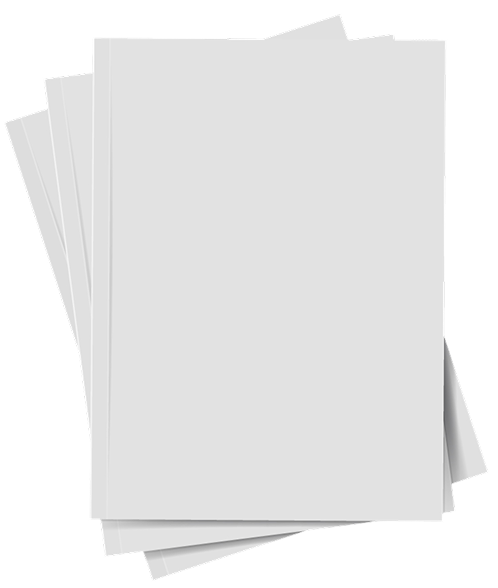
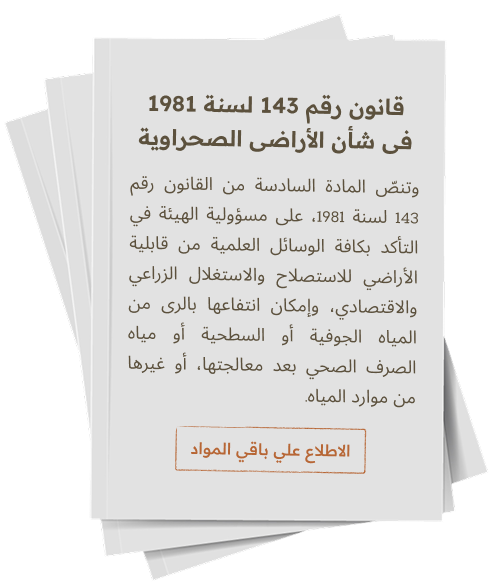
refactor(global): UI/UX fixes

diff --git a/src/html/components/almaghara/dynamic-content-3/parts/ar/main-content.part.html b/src/html/components/almaghara/dynamic-content-3/parts/ar/main-content.part.html
@@ -1,16 +1,24 @@
 <p class="animate fade-in">
-    تشمل الأراضي المُعدة للاستصلاح في واحة المغرة نحو 280 ألف فدان (1176 كم مربعًا تقريبًا) تم طرحها على ثلاث مراحل بين 2017 إلى 2020، تلتها مرحلة رابعة خُصصت لتوفير الخدمات دون بيع أراضٍ جديدة. تراوحت أسعار الفدان للتمليك بين 18 ألف جنيه (1000 دولار تقريبًا في 2017) عند الطرح الأول، وارتفعت تدريجيًا حتى وصلت إلى 23 ألف جنيه (1461 دولار تقريبًا في 2020)، وفقًا لعوامل منها؛ توافر بئر مياه في الأرض من عدمه. لم يحالف الحظ علاء الدين في أول طرح من الأراضي، وحصل على قطعة أرض  في الطرح الثاني بعقد "حق انتفاع" لمساحة 220 فدانًا.
+    تشمل الأراضي المُعدة للاستصلاح في واحة المغرة نحو 280 ألف فدان (1176 كم مربعًا تقريبًا) تم طرحها على ثلاث مراحل بين
+    2017 إلى 2020، تلتها مرحلة رابعة خُصصت لتوفير الخدمات دون بيع أراضٍ جديدة. تراوحت أسعار الفدان للتمليك بين 18 ألف
+    جنيه (1000 دولار تقريبًا في 2017) عند الطرح الأول، وارتفعت تدريجيًا حتى وصلت إلى 23 ألف جنيه (1461 دولار تقريبًا في
+    2020)، وفقًا لعوامل منها؛ توافر بئر مياه في الأرض من عدمه. لم يحالف الحظ علاء الدين في أول طرح من الأراضي، وحصل على
+    قطعة أرض في الطرح الثاني بعقد "حق انتفاع" لمساحة 220 فدانًا.
 </p>
 
 <div class="media-container timeline-container animate fade-in">
     <img src="webp/almaghara/timeline.webp" class="timeline">
+    <!-- @@include('./timeline.part.html') -->
 </div>
 
 <p class="animate fade-in">
-    ولمعرفة التحولات التي حدثت في المغرة، قمنا بمساعدة باحث متخصص في نظم المعلومات الجغرافية (GIS)، بتحليل مرئيات فضائية تغطي الفترة الزمنية من 2009 إلى 2025 عبر خمس مرئيات فضائية لعدة أعوام، باستخدام برامج متخصصة مثل (ArcGIS)، وجوجل إيرث، لتتبّع الاستصلاح الزراعي، ودرجة الملوحة، والغطاء النباتي وغير ذلك في منطقة المغرة.
+    ولمعرفة التحولات التي حدثت في المغرة، قمنا بمساعدة باحث متخصص في نظم المعلومات الجغرافية (GIS)، بتحليل مرئيات فضائية
+    تغطي الفترة الزمنية من 2009 إلى 2025 عبر خمس مرئيات فضائية لعدة أعوام، باستخدام برامج متخصصة مثل (ArcGIS)، وجوجل
+    إيرث، لتتبّع الاستصلاح الزراعي، ودرجة الملوحة، والغطاء النباتي وغير ذلك في منطقة المغرة.
 </p>
 <p class="animate fade-in">
-    وجدنا أنّ المساحات المستصلحة توسعت بين عامي 2009 إلى 2025 نحو 19 ضعفًا، من 31.2 كم مربع إلى 604.8 كم مربع، وزادت منذ انطلاق المشروع في 2019 إلى عام 2025 بنسبة 64%.
+    وجدنا أنّ المساحات المستصلحة توسعت بين عامي 2009 إلى 2025 نحو 19 ضعفًا، من 31.2 كم مربع إلى 604.8 كم مربع، وزادت منذ
+    انطلاق المشروع في 2019 إلى عام 2025 بنسبة 64%.
 </p>
 
 <div class="media-container image-chart-container animate fade-in">

diff --git a/src/html/components/almaghara/dynamic-content-3/parts/ar/timeline.part.html b/src/html/components/almaghara/dynamic-content-3/parts/ar/timeline.part.html
@@ -1,0 +1,73 @@
+<div class="timeline-section">
+
+    <div class="timeline-item">
+        <div class="timeline-date">مارس 2017</div>
+        <h3 class="timeline-title">الطرح الأول (الأرعة قراطية)</h3>
+        <div class="timeline-card">
+            <div class="timeline-body">
+                <div class="info-grid">
+                    <div><span>معروض:</span> 170 ألف فدان</div>
+                    <div><span>عدد القطع:</span> 252 قطعة</div>
+                    <div><span>سعر الفدان:</span> 18 ألف جنيه</div>
+                    <div><span>مساحة القطعة:</span> 238 فدان</div>
+                </div>
+                <ul class="notes">
+                    <li>يوجد به آبار</li>
+                    <li>تخصيص أسعار للمزراعين والشباب</li>
+                    <li>بدون بئر جوفي</li>
+                </ul>
+            </div>
+        </div>
+    </div>
+
+    <div class="timeline-item">
+        <div class="timeline-date">ديسمبر 2017</div>
+        <h3 class="timeline-title">الطرح التكميلي</h3>
+        <div class="timeline-card">
+            <div class="timeline-body">
+                <div class="info-grid">
+                    <div><span>معروض:</span> 43 ألف فدان</div>
+                    <div><span>عدد القطع:</span> 100 قطعة</div>
+                    <div><span>سعر الفدان:</span> 20900</div>
+                    <div><span>مساحة القطعة:</span> 220</div>
+                </div>
+                <ul class="notes">
+                    <li>مخصص لمن استوفى الشروط</li>
+                </ul>
+            </div>
+        </div>
+    </div>
+
+    <div class="timeline-item">
+        <div class="timeline-date">سبتمبر 2018</div>
+        <h3 class="timeline-title">طرح بنظام حق الانتفاع</h3>
+        <div class="timeline-card">
+            <div class="timeline-body">
+                <div class="info-grid">
+                    <div><span>عدد القطع:</span> 238 قطعة</div>
+                    <div><span>مساحة القطعة:</span> 51.2 فدان</div>
+                    <div><span>سعر الفدان:</span> 18 ألف <small>(تحتوي آبار)</small></div>
+                    <div><span>سعر الفدان:</span> 10 ألف <small>(بدون آبار)</small></div>
+                </div>
+                <ul class="notes">
+                    <li>بنظام حق الانتفاع لمدة محددة</li>
+                    <li>لم تكتمل المساحة سابقة</li>
+                </ul>
+            </div>
+        </div>
+    </div>
+
+    <div class="timeline-item">
+        <div class="timeline-date">يناير 2020</div>
+        <h3 class="timeline-title">طرح خدمات</h3>
+        <div class="timeline-card">
+            <div class="timeline-body">
+                <ul class="notes">
+                    <li>أراضي بديل خدمية (سكنية، تجارية، مخازن، محطات وقود)</li>
+                    <li>تخصيص لدعم المنطقة السكنية والخدمية الأولى في المغرة</li>
+                </ul>
+            </div>
+        </div>
+    </div>
+
+</div>

diff --git a/src/scss/components/almaghara/_text-image-2.scss b/src/scss/components/almaghara/_text-image-2.scss
@@ -1,9 +1,10 @@
 section.text-image-2 {
   padding-top: h.rem(40);
   padding-bottom: h.rem(40);
+  background-color: #302112;
 
-  .bg-image {
-    filter: brightness(50%);
+  img.bg-image {
+    opacity: 0.3;
   }
 
   img.section-image {
@@ -46,11 +47,13 @@ section.text-image-2 {
     p.content {
       font-size: h.rem(24);
       font-weight: 300;
+      line-height: h.rem(42);
     }
 
     p.footer {
       margin-top: h.rem(60);
       font-size: h.rem(24);
+      line-height: h.rem(42);
     }
   }
 }

diff --git a/src/scss/components/almaghara/_dynamic-content-3.scss b/src/scss/components/almaghara/_dynamic-content-3.scss
@@ -1,13 +1,27 @@
 section.dynamic-content-3 {
   padding: h.rem(60) 0 h.rem(24);
+  background-color: #302112;
 
   img.bg-image {
-    filter: brightness(0.6);
+    opacity: 0.3;
   }
 
   .timeline-container {
     margin-top: h.rem(25);
     margin-bottom: h.rem(40);
+
+    overflow: hidden;
+    overflow-x: auto;
+    -ms-overflow-style: none;
+    scrollbar-width: none;
+    &::-webkit-scrollbar {
+      display: none;
+    }
+
+    img {
+      min-width: 500px;
+      height: auto;
+    }
   }
 
   p {

diff --git a/src/scss/components/almaghara/_dynamic-content-2.scss b/src/scss/components/almaghara/_dynamic-content-2.scss
@@ -32,9 +32,11 @@ section.dynamic-content-2 {
   @media screen and (min-width: 992px) {
     padding: h.rem(67) 0;
     height: 100vh;
+    min-height: h.rem(800);
 
     p.main-content {
       font-size: h.rem(24);
+      line-height: h.rem(42);
     }
 
     .footer-container {
@@ -49,6 +51,7 @@ section.dynamic-content-2 {
 
         p {
           font-size: h.rem(24);
+          line-height: h.rem(42);
 
           &:not(:last-of-type) {
             margin-bottom: h.rem(20);

diff --git a/src/scss/components/almaghara/_text-image-1.scss b/src/scss/components/almaghara/_text-image-1.scss
@@ -10,13 +10,14 @@ section.text-image-1 {
     object-fit: contain;
     width: auto;
     margin-bottom: h.rem(20);
-    filter: brightness(35%);
+    filter: brightness(45%);
   }
 
   .container {
     p {
       font-size: h.rem(16);
       margin-bottom: h.rem(18);
+      font-weight: 400;
     }
   }
 
@@ -38,6 +39,7 @@ section.text-image-1 {
       p {
         font-size: h.rem(24);
         margin-bottom: h.rem(33);
+        line-height: h.rem(46);
       }
     }
   }

diff --git a/src/scss/components/almaghara/_quote-slider.scss b/src/scss/components/almaghara/_quote-slider.scss
@@ -17,6 +17,12 @@ section.quote-slider-1 {
     overflow: hidden;
     scroll-snap-type: y mandatory;
     overflow-y: scroll;
+
+    -ms-overflow-style: none;
+    scrollbar-width: none;
+    &::-webkit-scrollbar {
+      display: none;
+    }
   }
 
   .slide {
@@ -97,7 +103,6 @@ section.quote-slider-1 {
   }
 
   @media screen and (min-width: 992px) {
-
     .gradient-bottom {
       height: h.rem(201);
     }

diff --git a/src/scss/components/almaghara/_card-section-1.scss b/src/scss/components/almaghara/_card-section-1.scss
@@ -1,6 +1,10 @@
 section.card-section-1 {
   padding: h.rem(100) 0;
 
+  img.bg-image {
+    filter: brightness(60%);
+  }
+
   .gradient-top {
     position: absolute;
     top: -1px;
@@ -64,6 +68,7 @@ section.card-section-1 {
       p {
         margin-bottom: h.rem(24);
         font-size: h.rem(24);
+        line-height: h.rem(42);
       }
 
       .separator {

diff --git a/src/scss/components/almaghara/_dynamic-content-1.scss b/src/scss/components/almaghara/_dynamic-content-1.scss
@@ -1,5 +1,10 @@
 section.dynamic-content-1 {
   padding: h.rem(40) 0 h.rem(40);
+  background-color: #302112;
+
+  img.bg-image {
+    opacity: 0.3;
+  }
 
   p {
     font-weight: 300;
@@ -41,6 +46,7 @@ section.dynamic-content-1 {
 
     p {
       font-size: h.rem(24);
+      line-height: h.rem(42);
     }
 
     .media-container {

diff --git a/src/html/components/almaghara/dynamic-content-3/index-ar.part.html b/src/html/components/almaghara/dynamic-content-3/index-ar.part.html
@@ -1,5 +1,5 @@
 <section class="dynamic-content-3">
-    <img src="webp/almaghara/bg-sections-dark.webp" class="bg-image" loading="lazy">
+    <img src="webp/almaghara/bg-sections.webp" class="bg-image" loading="lazy">
     <div class="container p-relative z-1">
         <div class="row">
             <div class="col-12">

diff --git a/src/scss/components/almaghara/_image-caption-1.scss b/src/scss/components/almaghara/_image-caption-1.scss
@@ -21,9 +21,11 @@ section.image-caption-1 {
   @media screen and (min-width: 992px) {
     padding-top: h.rem(46);
     height: 100vh;
+    min-height: h.rem(635);
 
     p {
       font-size: h.rem(22);
+      line-height: h.rem(40);
     }
   }
 }

diff --git a/src/scss/components/almaghara/_banner-1.scss b/src/scss/components/almaghara/_banner-1.scss
@@ -2,6 +2,12 @@ section.banner-1 {
   padding: h.rem(40) 0;
   border-top: 5px solid #dce2e5;
 
+  background-color: #302112;
+
+  img.bg-image {
+    opacity: 0.3;
+  }
+
   p {
     font-size: h.rem(16);
     font-weight: 300;
